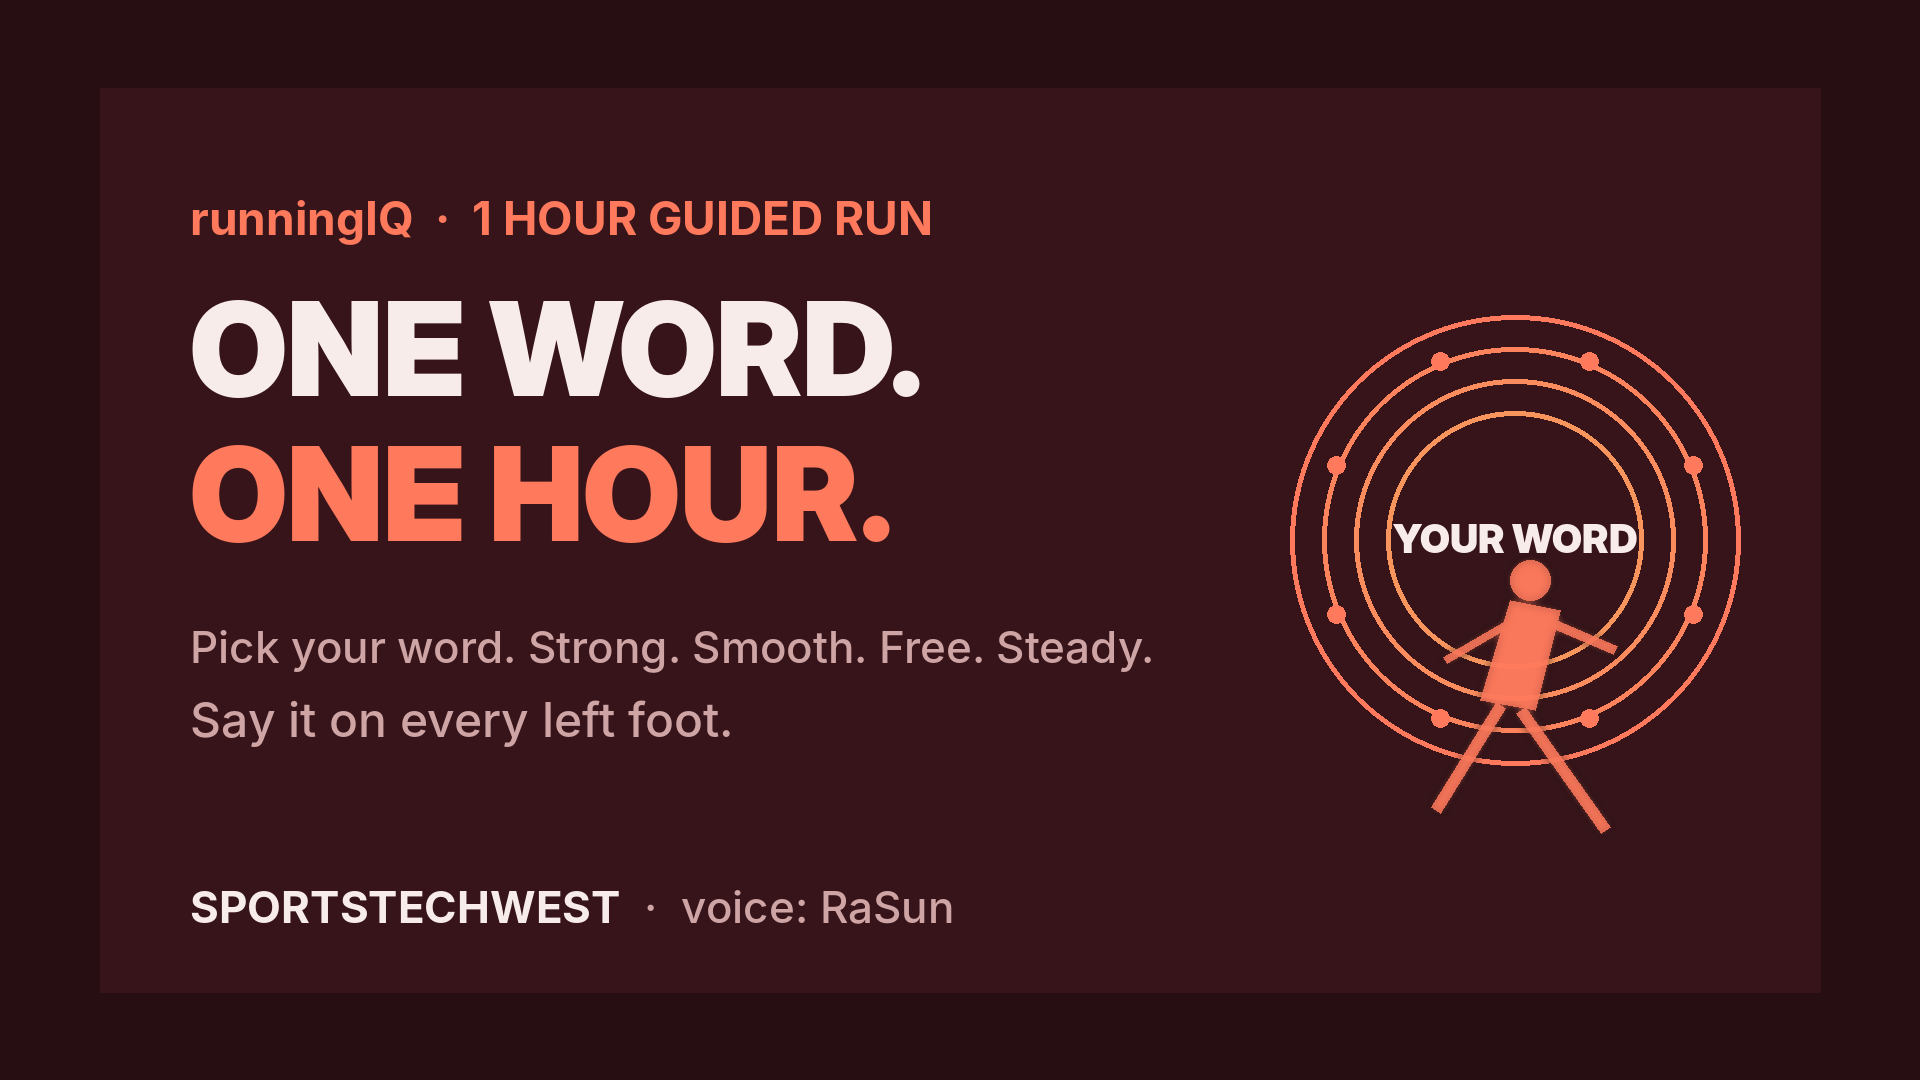
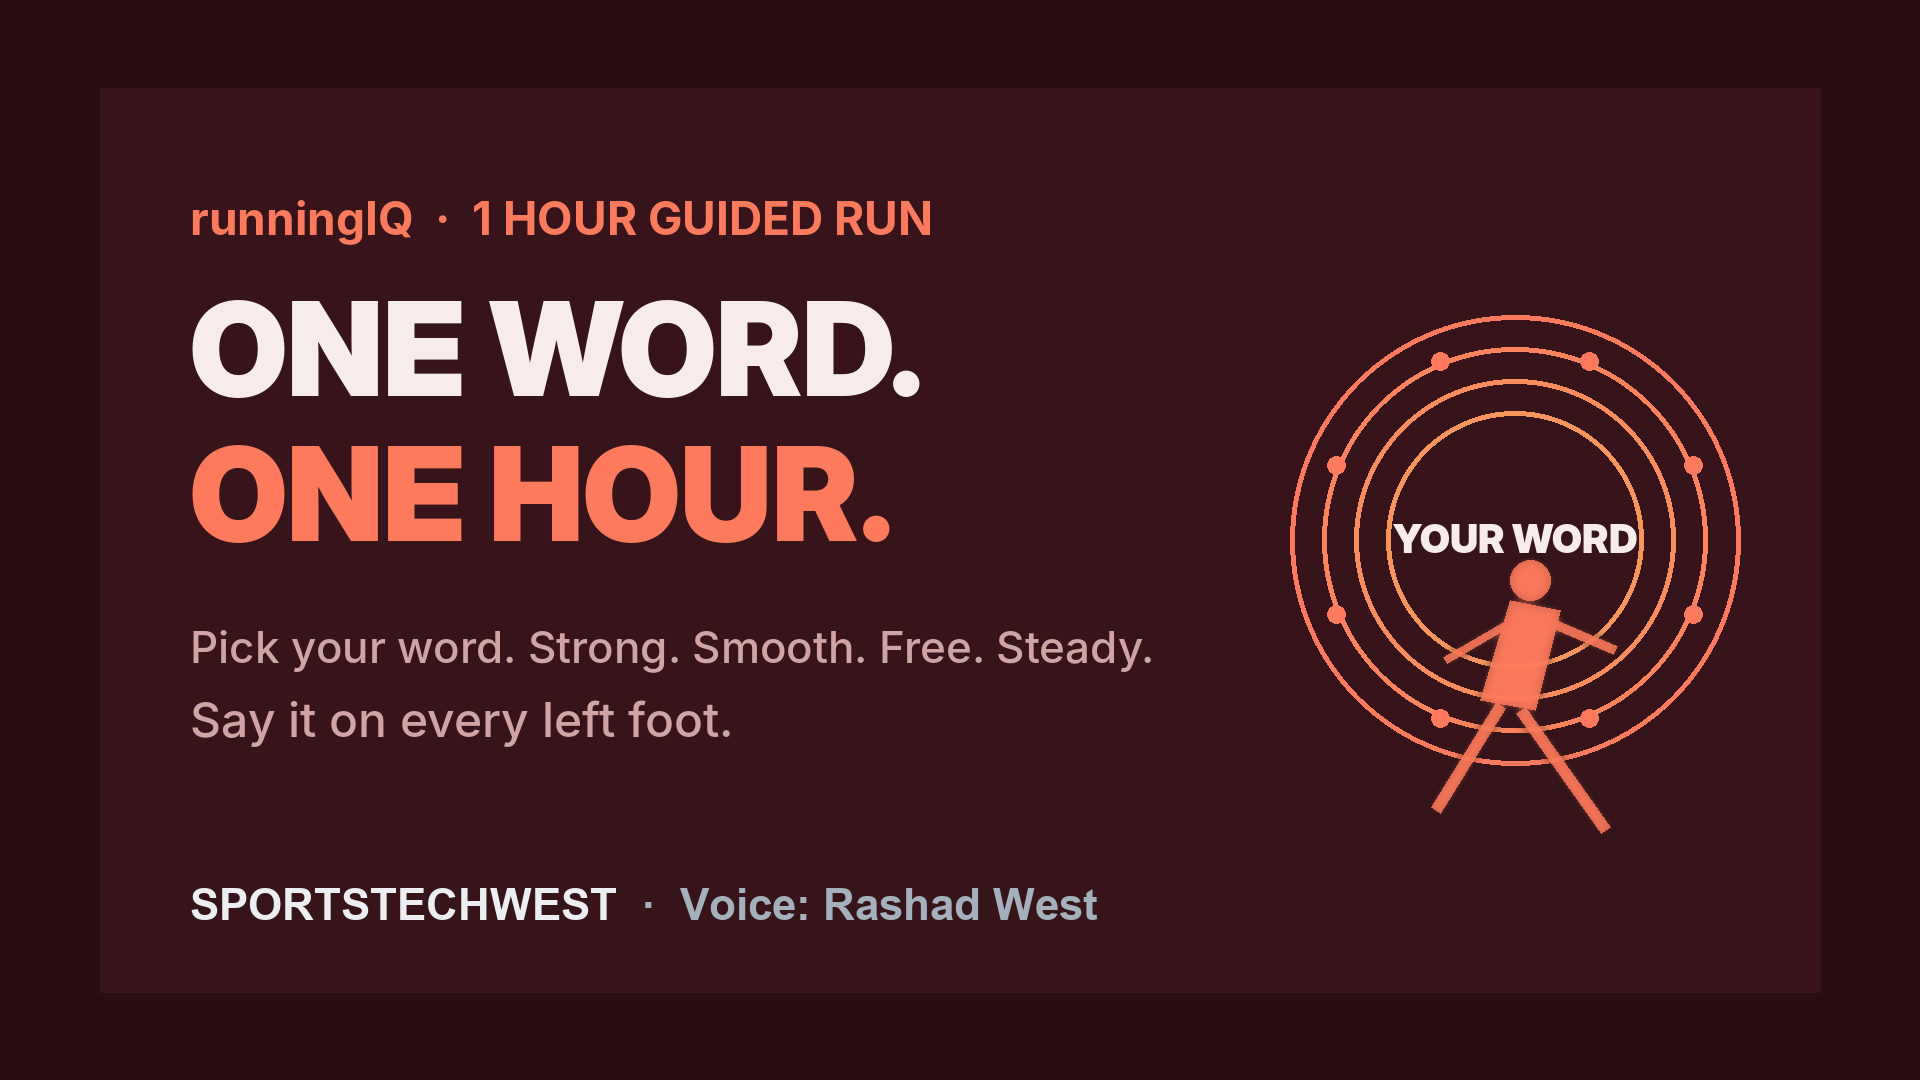
Credit IQ video cards to Voice: Rashad West.
Replace the on-image and YouTube metadata credit line so packaging
matches the real narrator name instead of RaSun.

Changed region(s): [[0.0938, 0.825, 0.5938, 0.8556]]

diff --git a/scripts/make-bikeiq-card.py b/scripts/make-bikeiq-card.py
@@ -45,7 +45,7 @@ def card(W,H,thumb):
         d.text((x,int(790*s)),"reaches the bottom.",font=font("Inter-Medium.otf",int(50*s)),fill=GREY)
         d.text((x,int(880*s)),"SPORTSTECHWEST",font=font("Inter-Bold.otf",int(44*s)),fill=WHITE)
         tw=d.textlength("SPORTSTECHWEST",font=font("Inter-Bold.otf",int(44*s)))
-        d.text((x+tw+int(24*s),int(880*s)),"·  voice: RaSun",font=font("Inter-Medium.otf",int(44*s)),fill=GREY)
+        d.text((x+tw+int(24*s),int(880*s)),"·  Voice: Rashad West",font=font("Inter-Medium.otf",int(44*s)),fill=GREY)
         wheel(d,int(1530*s),int(560*s),int(210*s),s)
         f=font("Inter-Bold.otf",int(38*s))
         d.text((int(1530*s)-d.textlength("IN 5",font=f)/2,int(280*s)),"IN 5",font=f,fill=ORANGE)

diff --git a/scripts/make-iq-card.py b/scripts/make-iq-card.py
@@ -252,7 +252,7 @@ def draw(card: dict, W: int, H: int, thumb: bool) -> Image.Image:
         fb = font("Inter-Bold.otf", int(44 * s))
         d.text((x, int(880 * s)), "SPORTSTECHWEST", font=fb, fill=T[4])
         tw = d.textlength("SPORTSTECHWEST", font=fb)
-        d.text((x + tw + int(24 * s), int(880 * s)), "·  voice: RaSun", font=font("Inter-Medium.otf", int(44 * s)), fill=T[5])
+        d.text((x + tw + int(24 * s), int(880 * s)), "·  Voice: Rashad West", font=font("Inter-Medium.otf", int(44 * s)), fill=T[5])
     return im
 
 
